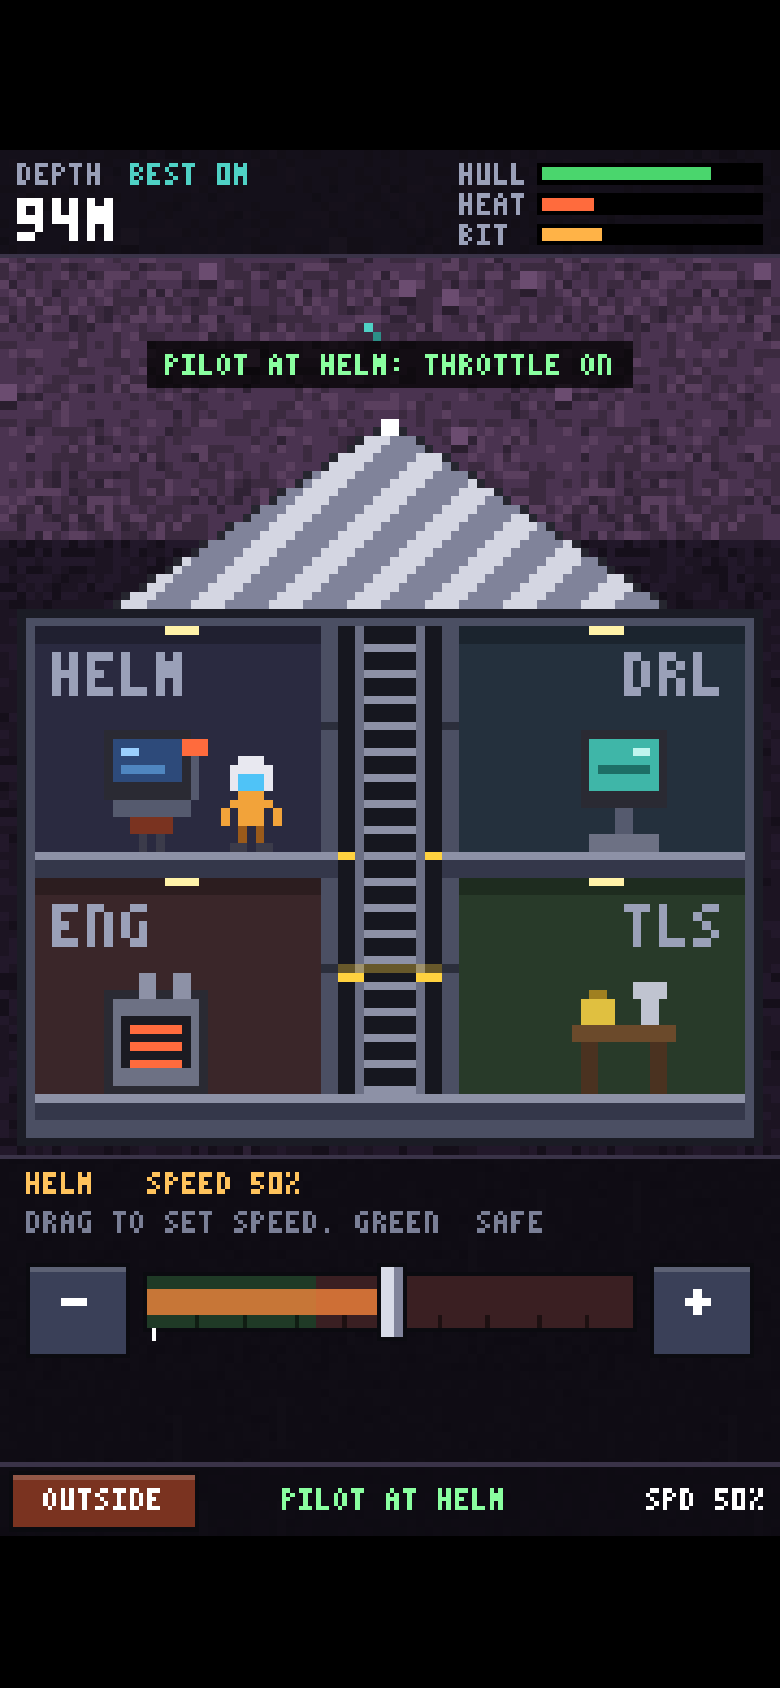
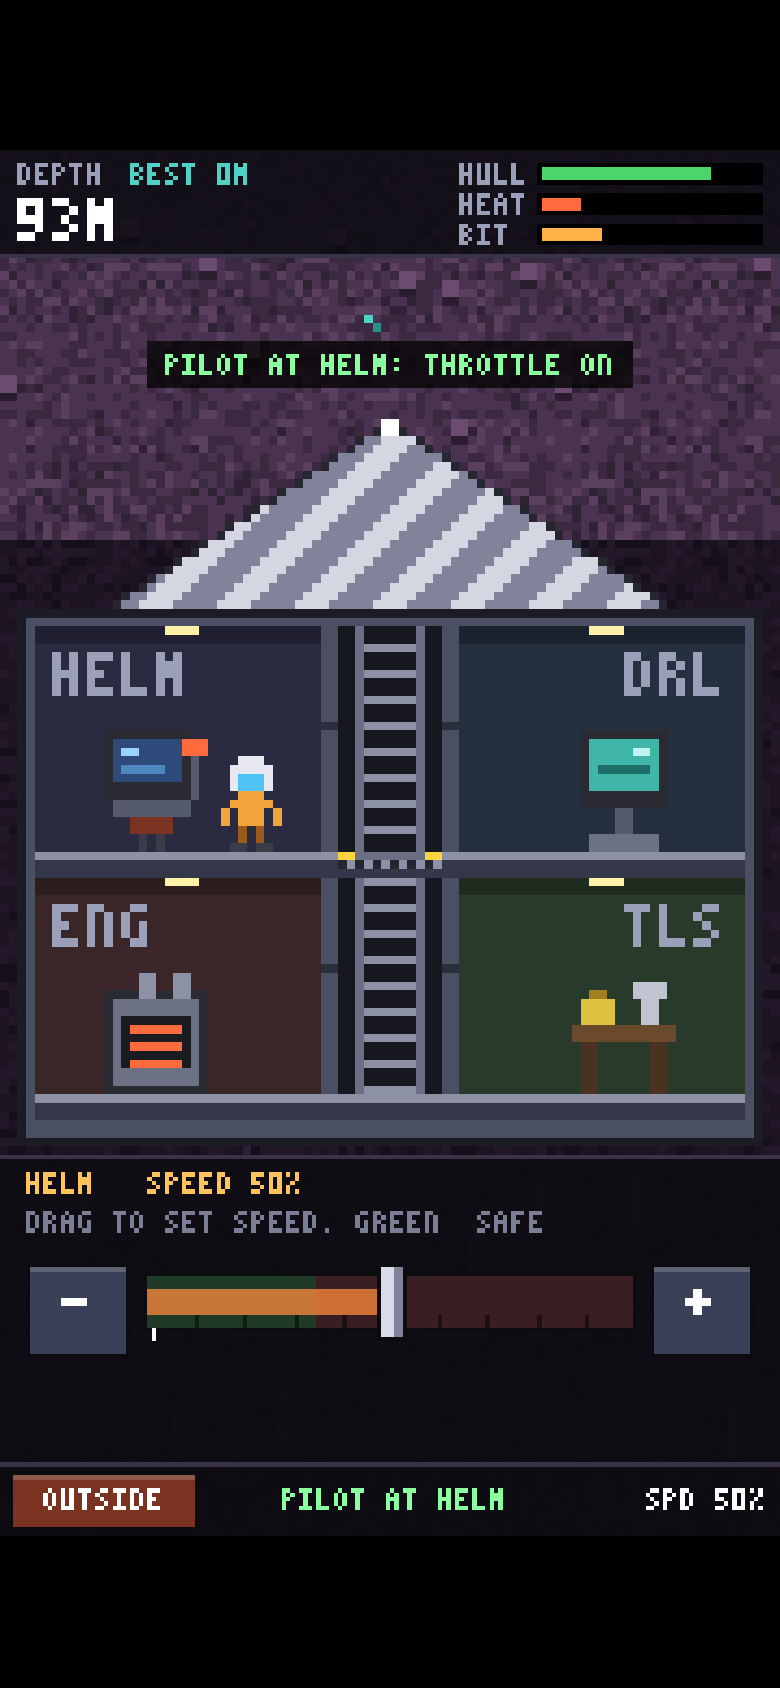
Pathing: same-deck trips walk straight across, cross-deck trips climb directly
- Same-deck (HELM<->DRL, ENG<->TLS): straight walk over a new grate deck plate that
  spans the ladder shaft on the top deck; no climbing (32px, ~0.68s)
- Cross-deck: walk to ladder, one direct floor-to-floor climb, walk out (60px, ~1.07s)
- Retarget on the ladder continues or reverses straight to the needed deck
- Removed the mid-ladder junction markers; CREW_WALK_SPEED 48, CREW_CLIMB_SPEED 70
- Crew trip stats record walk/climb px; e2e replaces equal-distance checks with
  per-route expectations + retarget cases; README and inside screenshot updated

diff --git a/src/systems/Crew.js b/src/systems/Crew.js
@@ -1,8 +1,8 @@
-// The single crew member. Moves FTL-style along a fixed network:
-//   stand spot <-> hub door (same deck)  (horizontal, CREW_WALK_SPEED)
-//   hub door   <-> junction <-> hub door (vertical ladder, CREW_CLIMB_SPEED)
-// Every station-to-station route passes through the junction, so all trips
-// have the same length. Retargeting mid-walk re-plans from the current spot.
+// The single crew member. Moves FTL-style:
+//   same deck  -> walk straight across the floor (over the ladder grate), no climbing
+//   other deck -> walk to the ladder, climb directly floor-to-floor, walk out
+// Retargeting re-plans from the current spot; on the ladder he continues or reverses
+// straight to the deck he now needs.
 import { TUNING as T, LAYOUT as L } from '../config.js';
 
 export class Crew {
@@ -25,18 +25,18 @@ export class Crew {
 
   get walking() { return this.station === null; }
 
-  /** Waypoints from (x, y) to a room's stand spot, always via the hub junction. */
+  /** Waypoints from (x, y) to a room's stand spot. */
   static plan(ship, x, y, roomId) {
     const B = ship.room(roomId);
     const hubX = L.HUB.cx;
-    const cur = ship.roomAt(x, y);
-    if (cur && cur.id === roomId) return [{ x: B.standX, y: B.floorY }]; // already on that room's walkway
-    const pts = [];
-    if (cur) pts.push({ x: hubX, y });                                    // walk to the hub door on this deck
-    pts.push({ x: hubX, y: L.HUB.junctionY });                           // ladder to the junction
-    pts.push({ x: hubX, y: B.floorY });                                  // ladder to the target deck
-    pts.push({ x: B.standX, y: B.floorY });                              // walk out to the station
-    return pts;
+    const deckFloors = Object.values(L.DECKS).map((d) => d.floor);
+    const floor = deckFloors.find((f) => Math.abs(f - y) < 0.01);
+    if (floor === undefined) {
+      // on the ladder: climb (or reverse) straight to the target deck, then walk out
+      return [{ x: hubX, y: B.floorY }, { x: B.standX, y: B.floorY }];
+    }
+    if (floor === B.floorY) return [{ x: B.standX, y: B.floorY }];       // same deck: straight across
+    return [{ x: hubX, y: floor }, { x: hubX, y: B.floorY }, { x: B.standX, y: B.floorY }]; // via one direct climb
   }
 
   static pathLength(x, y, pts) {
@@ -53,6 +53,7 @@ export class Crew {
     this.path = Crew.plan(this.ship, this.sprite.x, this.sprite.y, roomId);
     this.tripLength = Crew.pathLength(this.sprite.x, this.sprite.y, this.path);
     this.tripStart = this.scene.time.now;
+    this.tripWalk = 0; this.tripClimb = 0;
     this.station = null;
     this.working = false;
   }
@@ -71,11 +72,13 @@ export class Crew {
         this.climbing = vertical;
         if (!vertical && dx !== 0) this.sprite.setFlipX(dx < 0);
         if (dist <= speed * time) {
+          if (vertical) this.tripClimb += dist; else this.tripWalk += dist;
           this.sprite.setPosition(p.x, p.y);
           time -= dist / speed;
           this.path.shift();
         } else {
           const step = speed * time;
+          if (vertical) this.tripClimb += step; else this.tripWalk += step;
           this.sprite.x += Math.sign(dx) * Math.min(step, Math.abs(dx));
           this.sprite.y += Math.sign(dy) * Math.min(step, Math.abs(dy));
           time = 0;
@@ -86,7 +89,8 @@ export class Crew {
         this.station = this.target;
         this.climbing = false;
         this.sprite.setFlipX(r.faceLeft);
-        this.lastTrip = { from: this.tripFrom, to: this.target, ms: this.scene.time.now - this.tripStart, length: this.tripLength };
+        this.lastTrip = { from: this.tripFrom, to: this.target, ms: this.scene.time.now - this.tripStart, length: this.tripLength,
+          walk: Math.round(this.tripWalk * 100) / 100, climb: Math.round(this.tripClimb * 100) / 100 };
         this.sprite.setTexture('crew_idle');
         return;
       }

diff --git a/src/config.js b/src/config.js
@@ -65,10 +65,10 @@ export const TUNING = {
   HARD_SPEED_CAP: 0.7,
 
   // --- Crew / views -------------------------------------------------------
-  // Every trip is room -> hub -> room: 2 x STAND_OFFSET px of walking + 2 x HUB_DROP px of
-  // ladder = 32 px walk + 28 px climb => 32/72 + 28/64 = ~0.88 s per station-to-station trip.
-  CREW_WALK_SPEED: 72,     // world px / s on deck floors
-  CREW_CLIMB_SPEED: 64,    // world px / s on the hub ladder
+  // Same-deck trip: 32 px straight across the deck (over the ladder grate) = 32/48 = ~0.67 s.
+  // Cross-deck trip: 16 px to the ladder + 28 px direct climb + 16 px out = 32/48 + 28/70 = ~1.07 s.
+  CREW_WALK_SPEED: 48,     // world px / s on deck floors
+  CREW_CLIMB_SPEED: 70,    // world px / s on the hub ladder
   START_ROOM: 'helm',      // where the crew member stands when a run starts
   PILOT_REQUIRED: true,    // throttle only responds while the crew is at the HELM
   LOCK_TOAST_COOLDOWN: 900,// ms between "NO PILOT" toasts when tapping a locked throttle
@@ -78,15 +78,15 @@ export const TUNING = {
 // World layout (world units = base pixels; the world is one screen wide).
 //
 // The ship is a 2-deck, 2x2 grid of rooms around a central hub column with a
-// ladder. The hub JUNCTION sits halfway between the two deck floors, and every
-// trip goes  stand spot -> hub door (same deck) -> junction -> hub door -> stand spot,
-// so all 12 station-to-station trips have exactly the same length.
+// ladder. Same-deck trips walk straight across the deck (a grate covers the
+// ladder shaft on the top deck); cross-deck trips walk to the ladder, climb
+// directly floor-to-floor, then walk out.
 //
 //          /\  drill nose
 //   +------+--+------+
 //   | HELM |  | DRL  |   top deck   (nearest the drill)
-//   |------|##|------|   ## = ladder, junction at mid-height
-//   | ENG  |  | TLS  |   bottom deck
+//   |------|==|------|   == = grate over the ladder shaft, ## = ladder
+//   | ENG  |##| TLS  |   bottom deck
 //   +------+--+------+
 export const LAYOUT = {
   SHIP_X: 47, SHIP_W: 86, SHIP_TOP: 240, SHIP_BOTTOM: 302,
@@ -97,7 +97,7 @@ export const LAYOUT = {
     bottom: { ceil: 271, floor: 296 },
   },
   ROOM_W: 33,              // each room; rooms are separated from the hub by 2px walls
-  HUB: { x: 84, w: 12, cx: 90, junctionY: 282 }, // junctionY = midpoint of the two floors
+  HUB: { x: 84, w: 12, cx: 90 }, // ladder shaft column (ladder at cx)
   STAND_OFFSET: 16,        // horizontal distance hub centre -> every crew stand spot
   PATH_MIN_X: 62, PATH_MAX_X: 118, // boulder spawn column (in front of drill)
   ROOMS: [

diff --git a/src/systems/Ship.js b/src/systems/Ship.js
@@ -28,9 +28,6 @@ export class Ship {
     g.fillStyle(0x6b6f84, 1).fillRect(H.cx - 4, D.top.ceil, 1, D.bottom.floor - D.top.ceil)
       .fillRect(H.cx + 3, D.top.ceil, 1, D.bottom.floor - D.top.ceil);
     for (let y = D.top.ceil + 2; y < D.bottom.floor; y += 3) g.fillStyle(0x8d91a6, 1).fillRect(H.cx - 3, y, 6, 1);
-    // junction landing (the shared midpoint every trip passes through)
-    g.fillStyle(0xffd23f, 1).fillRect(H.x, H.junctionY, 3, 1).fillRect(H.x + H.w - 3, H.junctionY, 3, 1);
-    g.fillStyle(0xffd23f, 0.35).fillRect(H.x, H.junctionY - 1, H.w, 1);
     // walls between rooms and hub, with a doorway at each floor
     for (const d of [D.top, D.bottom]) {
       for (const wx of [H.x - 2, H.x + H.w]) {
@@ -42,7 +39,12 @@ export class Ship {
     const slab = (x, y, ww) => { g.fillStyle(0x8d91a6, 1).fillRect(x, y, ww, 1); g.fillStyle(0x34374a, 1).fillRect(x, y + 1, ww, 2); };
     slab(ix, D.top.floor, H.x - ix);
     slab(H.x + H.w, D.top.floor, ix + iw - H.x - H.w);
-    g.fillStyle(0xffd23f, 1).fillRect(H.x, D.top.floor, 2, 1).fillRect(H.x + H.w - 2, D.top.floor, 2, 1); // hatch lips
+    // grate deck plate over the ladder shaft, so same-deck walks cross a real floor
+    const gy = D.top.floor;
+    g.fillStyle(0x6b6f84, 1).fillRect(H.x, gy, H.w, 1);                               // grate top edge
+    for (let x = H.x; x < H.x + H.w; x++) g.fillStyle(x % 2 ? 0x8d91a6 : 0x23252f, 1).fillRect(x, gy + 1, 1, 1);
+    g.fillStyle(0x34374a, 1).fillRect(H.x, gy + 2, H.w, 1);
+    g.fillStyle(0xffd23f, 1).fillRect(H.x, gy, 2, 1).fillRect(H.x + H.w - 2, gy, 2, 1); // hazard trim at the hatch edges
     slab(ix, D.bottom.floor, iw);
     this.interior = g;
 
@@ -95,13 +97,6 @@ export class Ship {
   }
 
   room(id) { return this.rooms.find((r) => r.id === id); }
-
-  /** Room whose horizontal walkway contains (x, y), or null if on the hub ladder. */
-  roomAt(x, y) {
-    if (Math.abs(x - L.HUB.cx) < 0.01) return null;
-    const side = x < L.HUB.cx ? 'left' : 'right';
-    return this.rooms.find((r) => r.side === side && Math.abs(r.floorY - y) < 0.01) || null;
-  }
 
   setInside(inside, ms) {
     this.scene.tweens.add({ targets: [this.exterior], alpha: inside ? 0 : 1, duration: ms, ease: 'Sine.easeInOut' });

diff --git a/README.md b/README.md
@@ -1,4 +1,4 @@
-# Drill (working title): prototype v0.3
+# Drill (working title): prototype v0.3.1
 
 An endless, portrait, pixel-art drilling game for phone browsers. You pilot a drill ship that bores **upward** through an alien planet and keep it alive by running your one crew member between stations. Your score is depth.
 
@@ -36,13 +36,15 @@ Optional desktop keys: `W/S` or arrow keys for throttle (only when piloted), `Sp
           /\        drill nose
    +------+--+------+
    | HELM |  | DRL  |   top deck (nearest the drill)
-   |------|##|------|   ## = hub ladder; yellow marks = junction at mid-height
-   | ENG  |  | TLS  |   bottom deck
+   |------|==|------|   == grate deck plate over the ladder shaft
+   | ENG  |##| TLS  |   bottom deck   (## = ladder)
    +------+--+------+
   ```
-  * Every move follows one network: walk from the stand spot to the hub door on that deck, take the ladder to the **junction** halfway between the decks, take the ladder to the target deck, then walk out to the station. Trips between two rooms on the same deck also dip through the junction.
-  * Every stand spot is the same distance from the hub (`STAND_OFFSET` = 16 px) and both floors are the same distance from the junction (14 px). So **all 12 station-to-station trips are exactly 60 px**: 32 px walking at `CREW_WALK_SPEED` 72 plus 28 px climbing at `CREW_CLIMB_SPEED` 64, about **0.88 s**.
-  * Tapping a new room mid-walk re-plans from where the crew is, still via the junction. If you tap the room the crew is just walking out of, they turn around and walk straight back.
+  * **Same-deck trips** (HELM↔DRL, ENG↔TLS) walk straight across the floor, over the grate on the top deck, with no climbing: 32 px at `CREW_WALK_SPEED` 48, about **0.68 s**.
+  * **Cross-deck trips** (all other pairs) walk 16 px to the ladder, climb directly floor to floor (28 px at `CREW_CLIMB_SPEED` 70, with no stop), then walk 16 px out: 60 px, about **1.07 s**. The diagonal trips (e.g. HELM↔TLS) take the same time as the straight-down ones (HELM↔ENG), because every stand spot is `STAND_OFFSET` = 16 px from the ladder.
+  * **Retargeting** re-plans from where the crew is:
+    * On a deck, same-deck targets mean walking straight there (including turning straight back); other-deck targets mean walking to the ladder and climbing once.
+    * On the ladder, the crew continues or reverses straight to the deck the new target is on, then walks out.
 * **Speed / depth**: real speed eases toward the throttle (quick to brake, slower to accelerate). The rock scrolls down past the ship, and depth = px scrolled / `PX_PER_METER`.
 * **Engine heat (ENG, hold VENT)**: builds with `speed² × difficulty`, has passive cooling, and is doubled in hard rock. Random **coolant leaks** add a heat spike on a timer, so crawling isn't free. At 100% the engine is capped at 40% speed and the hull takes damage every second.
 * **Drill bit wear (DRL, hold FIX DRILL BIT)**: builds per metre drilled, tripled in hard rock, and goes up with grinding and ramming. At 100% speed is capped at 50% and the hull takes damage while moving.
@@ -107,18 +109,18 @@ screenshots/               outside piloted / outside no pilot / inside at helm /
 | `OBSTACLE_GAP_START` → `MIN` over `GAP_DEPTH` | 90 → 22 m over 1500 m | boulder spacing |
 | `HARD_*` | start 120 m, 35% per 60 m, heat×2, wear×3, cap 0.7 | hard rock bands |
 | `HEAT/WEAR_ALERT`, `HULL_ALERT` | 70 / 70 / 35 | alert thresholds |
-| `CREW_WALK_SPEED` | 72 | crew speed on deck floors (world px/s) |
-| `CREW_CLIMB_SPEED` | 64 | crew speed on the hub ladder; together these give about 0.88 s per trip |
+| `CREW_WALK_SPEED` | 48 | crew speed on deck floors (world px/s); same-deck trip about 0.68 s |
+| `CREW_CLIMB_SPEED` | 70 | crew speed on the hub ladder; cross-deck trip about 1.07 s |
 | `START_ROOM` | `'helm'` | where the crew starts each run |
 | `PILOT_REQUIRED` | true | throttle only works with the crew at the helm |
 | `LOCK_TOAST_COOLDOWN` | 900 | ms between "NO PILOT" toasts when you tap a locked throttle |
 | `VIEW_PAN_MS` | 650 | camera transition |
 
-`LAYOUT` holds the ship geometry: an 86×62 px hull with a 24 px drill nose (tip at y 218), deck ceilings and floors (`DECKS`), `ROOM_W` 33, the hub column and junction (`HUB`), and `STAND_OFFSET`. It also holds the two camera targets: `OUTSIDE_CAM` at zoom 1, and `INSIDE_CAM` at **integer zoom 2**, which fits the whole ship between the HUD and the station panel so every pixel is the same size. `ROOM_GEOM` (derived) gives each room's x, floor, station and stand spot, and is shared by the ship, the crew, and the exterior art.
+`LAYOUT` holds the ship geometry: an 86×62 px hull with a 24 px drill nose (tip at y 218), deck ceilings and floors (`DECKS`), `ROOM_W` 33, the hub/ladder column (`HUB`), and `STAND_OFFSET`. It also holds the two camera targets: `OUTSIDE_CAM` at zoom 1, and `INSIDE_CAM` at **integer zoom 2**, which fits the whole ship between the HUD and the station panel so every pixel is the same size. `ROOM_GEOM` (derived) gives each room's x, floor, station and stand spot, and is shared by the ship, the crew, and the exterior art.
 
 ## Testing
 
-`tests/e2e.mjs` drives the game in headless Chromium at a 390×844 phone viewport with touch emulation. It uses real taps and touch-holds for both throttles, the view toggle, room taps, station actions, the locked throttle, and the GO TO HELM shortcut. It also checks that all 12 planned trips have equal length, walks every ordered trip by tapping rooms (equal length, timed at 0.6–1.0 s), tests mid-walk retargeting, confirms the ship fits the 2x inside view, and checks that `!` bubbles sit over the correct rooms. Debug pokes (via `window.__drill`) are used only to set up states quickly.
+`tests/e2e.mjs` drives the game in headless Chromium at a 390×844 phone viewport with touch emulation. It uses real taps and touch-holds for both throttles, the view toggle, room taps, station actions, the locked throttle, and the GO TO HELM shortcut. It also checks the route for each trip type: same-deck plans are a single straight walk, and cross-deck plans are exactly one direct floor-to-floor climb with no mid-ladder stop. It walks all 12 ordered trips by tapping rooms and checks the measured walk and climb distances and times (same-deck 0.6–0.8 s, cross-deck at most about 1.1 s). It also tests retargeting mid-climb (reverse, or continue) and mid-walk, confirms the ship fits the 2x inside view, and checks that `!` bubbles sit over the correct rooms. Debug pokes (via `window.__drill`) are used only to set up states quickly.
 
 ```bash
 npm i playwright && npx playwright install chromium   # in any folder with node_modules
